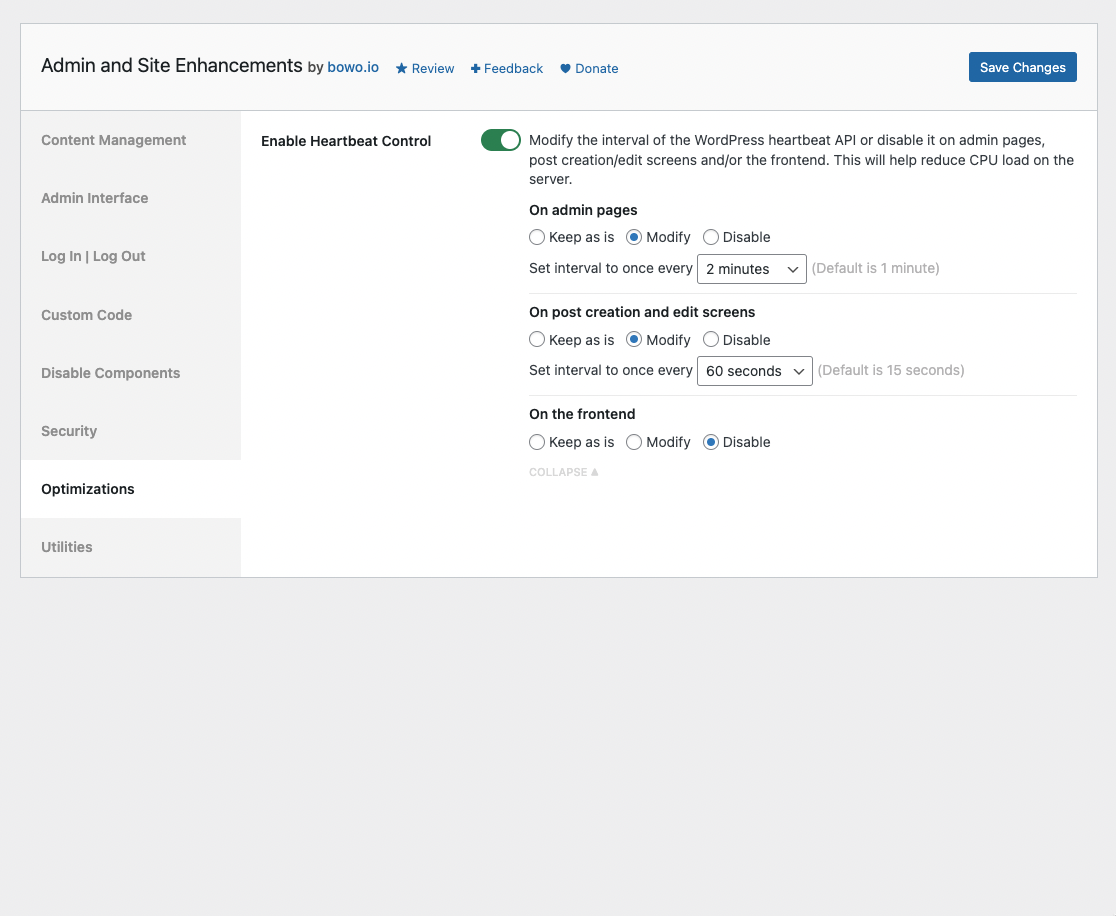
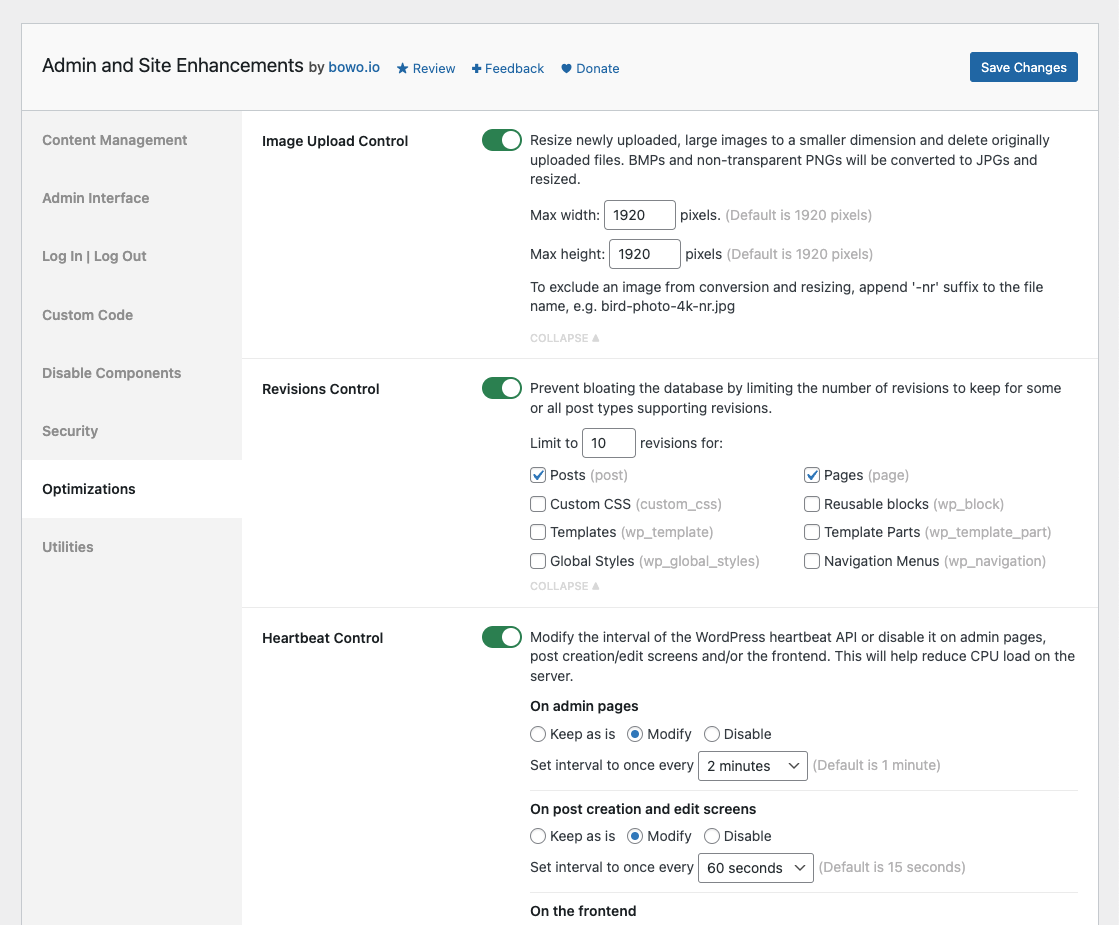
v4.3.0 release

diff --git a/admin-site-enhancements.php b/admin-site-enhancements.php
@@ -4,7 +4,7 @@
  * Plugin Name:       Admin and Site Enhancements
  * Plugin URI:        https://wordpress.org/plugins/admin-site-enhancements/
  * Description:       Easily enable enhancements and features that usually require multiple plugins.
- * Version:           4.2.2
+ * Version:           4.3.0
  * Author:            Bowo
  * Author URI:        https://bowo.io
  * License:           GPL-2.0+
@@ -18,7 +18,7 @@ if ( ! defined( 'ABSPATH' ) ) {
 	exit;
 }
 
-define( 'ASENHA_VERSION', '4.2.2' );
+define( 'ASENHA_VERSION', '4.3.0' );
 define( 'ASENHA_ID', 'asenha' );
 define( 'ASENHA_SLUG', 'admin-site-enhancements' );
 define( 'ASENHA_SLUG_U', 'admin_site_enhancements' );

diff --git a/README.md b/README.md
@@ -5,7 +5,7 @@ Donate link: https://paypal.me/qriouslad
 Tags: enhancements, tweaks, optimizations, tools  
 Requires at least: 4.6  
 Tested up to: 6.1.1  
-Stable tag: 4.2.2  
+Stable tag: 4.3.0  
 Requires PHP: 5.6  
 License: GPLv2 or later  
 License URI: http://www.gnu.org/licenses/gpl-2.0.html
@@ -18,14 +18,21 @@ Duplicate post, replace media, admin menu editor, custom css / code, disable gut
 
 Admin and Site Enhancements helps you to easily enhance various admin workflows and site aspects while replacing multiple plugins doing it. 
 
+>  "Amazing how many separate plugins this replaces!" ~[@yudayuda](https://wordpress.org/support/topic/amazing-how-many-separate-plugins-this-replaces/)
+
+> "I really love how this plugin incorporates so many small fixes or tweaks that are needed with WordPress - I can now get rid of many other plugins." ~[@Dale Reardon](https://wordpress.org/support/topic/fantastic-plugin-replacing-many-other-plugins/)
+
+> " This plugin allows you to install and maintain one plugin instead of a host of smaller ones. My tests were all successful and I was happy to simplify my maintenance with fewer plugins." ~[Vic Drover](https://wordpress.org/support/topic/replaced-4-plugins-worked-well-a/)
+
+>  "\[This\] is a Swiss Army Knife in terms of features that will keep your WordPress clean and optimal." ~[@samirhp](https://wordpress.org/support/topic/there-are-no-words-just-amazing/)
+
 ### Content Management
 
-* **Enable Page and Post Duplication**. Enable one-click duplication of pages, posts and custom posts. The corresponding taxonomy terms and post meta will also be duplicated.
-* **Enable Media Replacement**. Easily replace any type of media file with a new one while retaining the existing media ID, publish date and file name. So, no existing links will break.
-* **Enable SVG Upload**. Allow some or all user roles to upload SVG files, which will then be sanitized to keep things secure.
-* **Enable External Permalinks**. Enable pages, posts and/or custom post types to have permalinks that point to external URLs. Compatible with links added using [Page Links To](https://wordpress.org/plugins/page-links-to/).
-* **Enable Revisions Control**. Prevent bloating the database by limiting the number of revisions to keep for some or all post types supporting revisions.
-* **Enable Auto-Publishing of Posts with Missed Schedule**. Trigger publishing of scheduled posts of all types marked with "missed schedule", anytime the site is visited.
+* **Page and Post Duplication**. Enable one-click duplication of pages, posts and custom posts. The corresponding taxonomy terms and post meta will also be duplicated.
+* **Media Replacement**. Easily replace any type of media file with a new one while retaining the existing media ID, publish date and file name. So, no existing links will break.
+* **SVG Upload**. Allow some or all user roles to upload SVG files, which will then be sanitized to keep things secure.
+* **External Permalinks**. Enable pages, posts and/or custom post types to have permalinks that point to external URLs. Compatible with links added using [Page Links To](https://wordpress.org/plugins/page-links-to/).
+* **Auto-Publish Posts with Missed Schedule**. Trigger publishing of scheduled posts of all types marked with "missed schedule", anytime the site is visited.
 * **Enhance List Tables**. Improve the usefulness of listing pages of various post types by adding / removing columns and elements.
   * _Show the featured image column_: in the list tables for pages and post types that support featured images.
   * _Show the excerpt column_: in the list tables for pages and post types that support excerpt.
@@ -37,7 +44,6 @@ Admin and Site Enhancements helps you to easily enhance various admin workflows 
 ### Admin Interface
 
 * **Hide Admin Notices**. Clean up admin pages by moving notices into a separate panel easily accessible via the admin bar.
-* **View Admin as Role**. View admin pages and the site (logged-in) as one of the non-administrator user roles.
 * **Admin Menu Organizer**. Customize the order of the admin menu and optionally change menu item title or hide some items.
 * **Disable Dashboard Widgets**. Clean up and speed up the dashboard by completely disabling some or all widgets. Disabled widgets won't load any assets nor show up under Screen Options.
 * **Clean Up Admin Bar**. Remove various elements from the admin bar.
@@ -52,14 +58,14 @@ Admin and Site Enhancements helps you to easily enhance various admin workflows 
 ### Log In / Log Out
 
 * **Change Login URL**. Improve site security by using a custom login URL, e.g. www.example.com/backend
-* **Enable Log In/Out Menu**. Enable log in, log out and dynamic log in/out menu item for addition to any menu.
-* **Enable Last Login Column**. Log when users on the site last logged in and display the date and time in the users list table.
+* **Log In/Out Menu**. Enable log in, log out and dynamic log in/out menu item for addition to any menu.
+* **Last Login Column**. Log when users on the site last logged in and display the date and time in the users list table.
 * **Redirect After Login / Logout**. Set custom redirect URL for all or some user roles after login / logout.
 
 ### Custom Code
 
-* **Enable Custom Admin CSS**. Add custom CSS on all admin pages for all user roles.
-* **Enable Custom Frontend CSS**. Add custom CSS on all frontend pages for all user roles.
+* **Custom Admin CSS**. Add custom CSS on all admin pages for all user roles.
+* **Custom Frontend CSS**. Add custom CSS on all frontend pages for all user roles.
 * **Insert &lt;head&gt;, &lt;body&gt; and &lt;footer&gt; Code**. Easily insert &lt;meta&gt;, &lt;link&gt;, &lt;script&gt; and &lt;style&gt; tags, Google Analytics, Tag Manager, AdSense, Ads Conversion and Optimize code, Facebook, TikTok and Twitter pixels, etc.
 * **Manage ads.txt and app-ads.txt**. Easily edit and validate your ads.txt and app-ads.txt content.
 * **Manage robots.txt**. Easily edit and validate your robots.txt content.
@@ -80,11 +86,14 @@ Admin and Site Enhancements helps you to easily enhance various admin workflows 
 
 ### Optimizations
 
-* **Enable Heartbeat Control**. Modify the interval of the WordPress heartbeat API or disable it on admin pages, post creation/edit screens and/or the frontend. This will help reduce CPU load on the server.
+* **Image Upload Control**. Resize newly uploaded, large images to a smaller dimension and delete originally uploaded files. BMPs and non-transparent PNGs will be converted to JPGs and resized.
+* **Revisions Control**. Prevent bloating the database by limiting the number of revisions to keep for some or all post types supporting revisions.
+* **Heartbeat Control**. Modify the interval of the WordPress heartbeat API or disable it on admin pages, post creation/edit screens and/or the frontend. This will help reduce CPU load on the server.
 
 ### Utilities
 
-* **Enable Password Protection**. Password-protect the entire site to hide the content from public view and search engine bots / crawlers. Logged-in administrators can still access normally.
+* **View Admin as Role**. View admin pages and the site (logged-in) as one of the non-administrator user roles.
+* **Password Protection**. Password-protect the entire site to hide the content from public view and search engine bots / crawlers. Logged-in administrators can still access normally.
 * **Redirect 404 to Homepage**. Perform 301 (permanent) redirect to the homepage for all 404 (not found) pages.
 
 Admin and Site Enhancements will include more enhancements, tweaks and useful features in future versions. Please [give feedback](https://wordpress.org/support/plugin/admin-site-enhancements/) on must-have plugins or code snippets you enable on sites that you manage, and the functionalities will be considered for inclusion as well.
@@ -130,6 +139,13 @@ Admin and Site Enhancements will include more enhancements, tweaks and useful fe
 Hoping that this is useful in reducing the number of plugins we install the first time we set up a site.
 
 ## Changelog
+
+### 4.3.0 (2023.01.30)
+
+* **[ADDED] Optimizations >> Image Upload Control**. Resize newly uploaded, large images to a smaller dimension and delete originally uploaded files. BMPs and non-transparent PNGs will be converted to JPGs and resized.
+* **[CHANGED] Revisions Control** is now under the Optimizations category.
+* **[CHANGED] View Admin as Role** is now under the Utilities category.
+* **[CHANGED] Improve title of features** to be shorter and more consistent across categories.
 
 ### 4.2.2 (2023.01.24)
 
